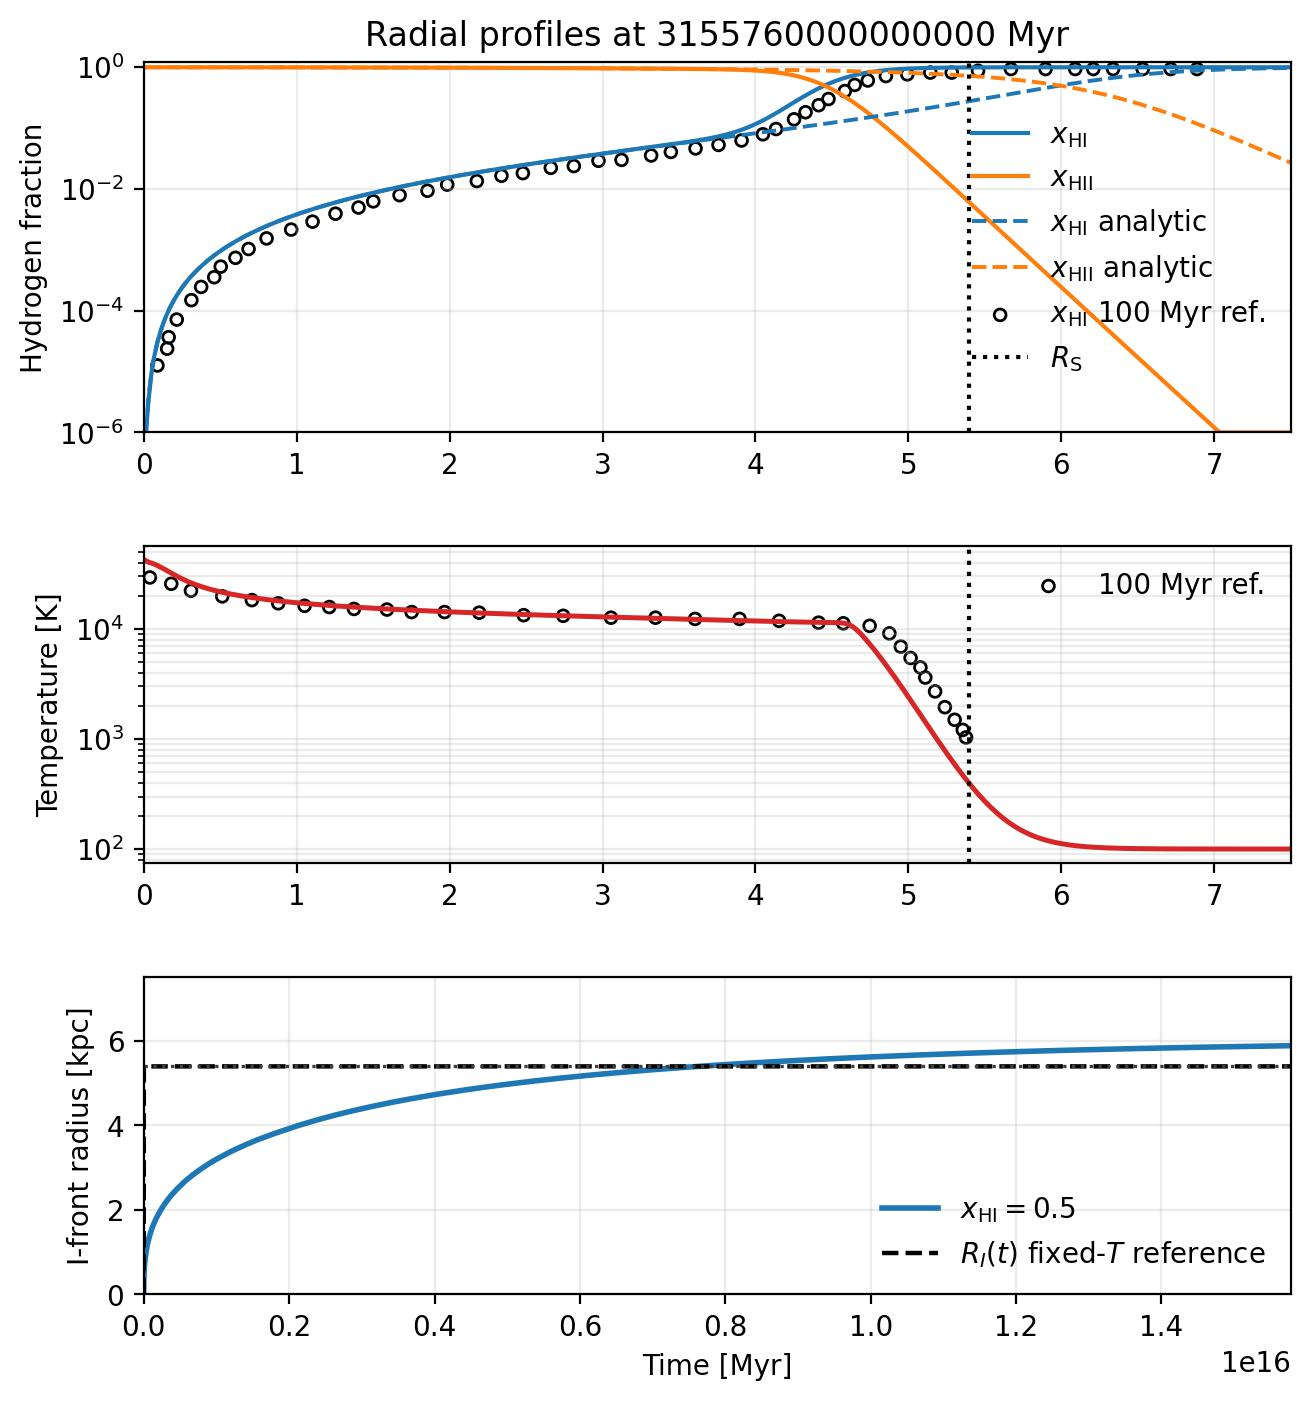
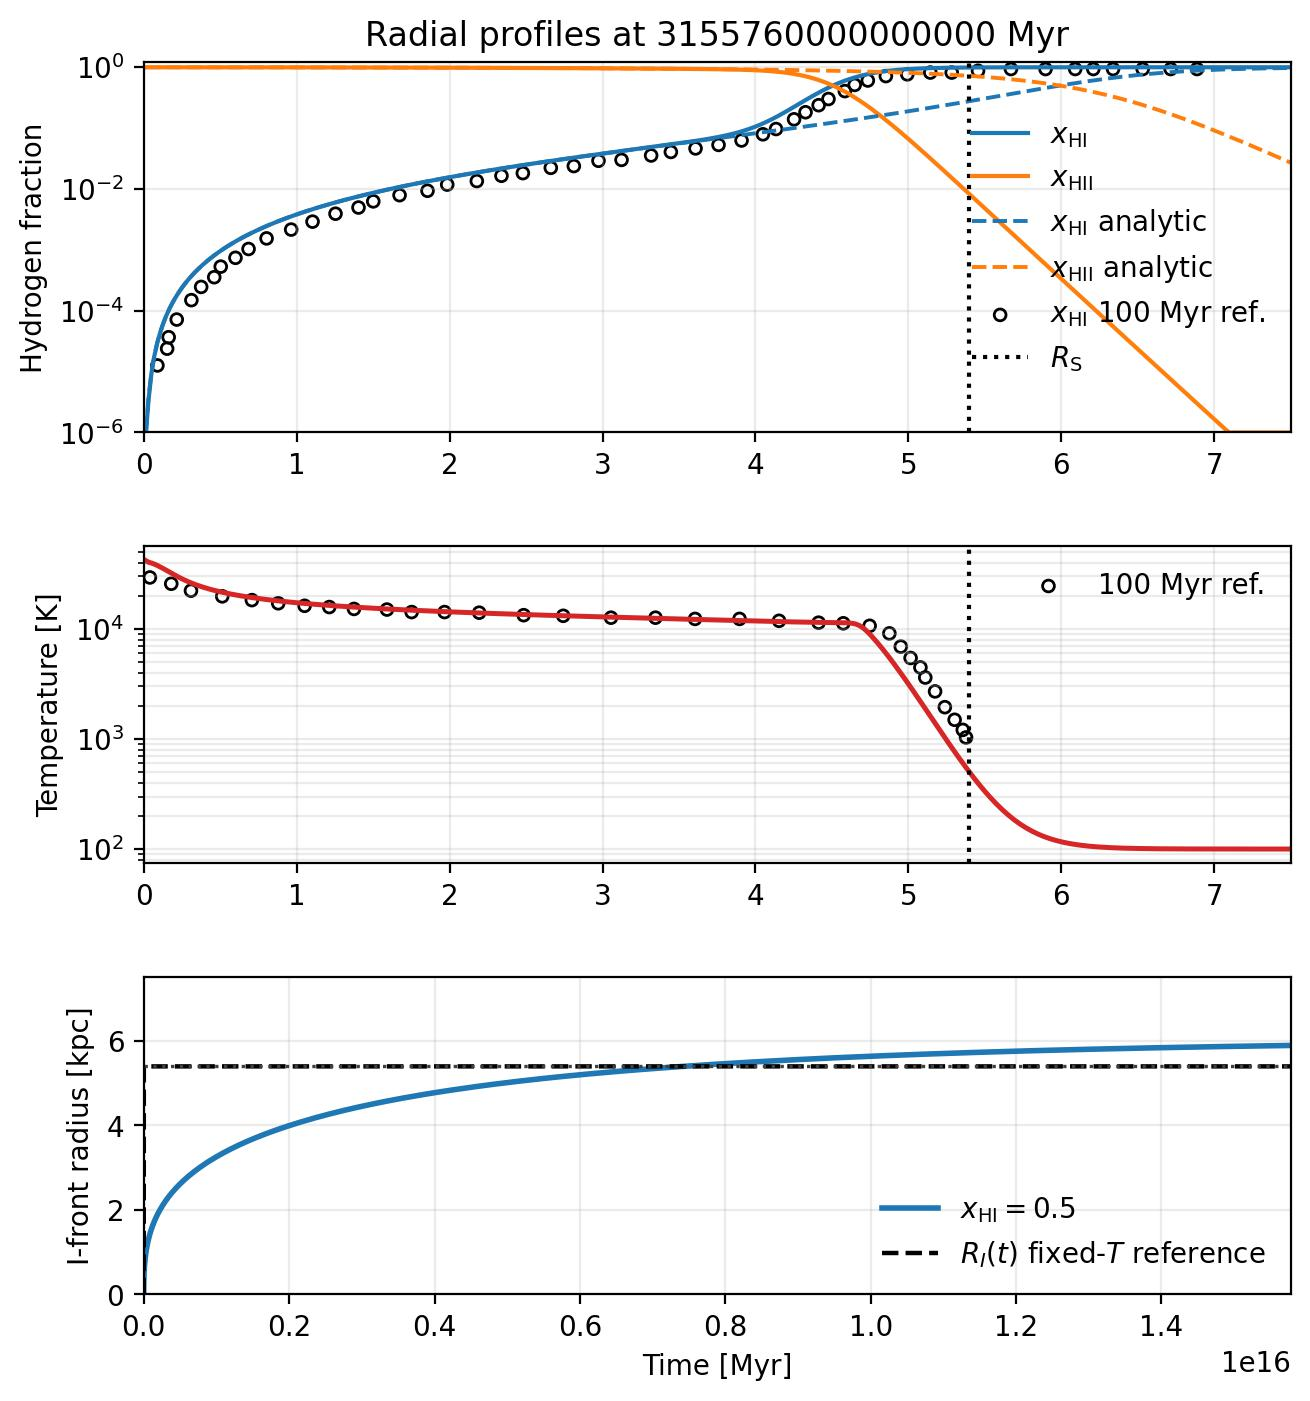
clean up and debug static stromgren sphere photoheating

diff --git a/example/StaticStromgrenSpherePhotoheating1D/tools.py b/example/StaticStromgrenSpherePhotoheating1D/tools.py
@@ -3,6 +3,7 @@
 import os
 import sys
 from types import SimpleNamespace
+from pathlib import Path
 
 import matplotlib
 matplotlib.use('Agg')
@@ -10,15 +11,12 @@ import matplotlib.pyplot as plt
 import numpy as np
 import unyt
 
-import radhydropy.radiative_transfer as rrt
-from radhydropy.eos import EOS
 from radhydropy.fluid import Fluid
 import radhydropy.io as rio
 from radhydropy.mesh import Mesh
 from radhydropy.solver import Solver
 from radhydropy.units import (
     CodeUnits,
-    _as_cgs_float,
 )
 
 static_stromgren_dir = os.path.abspath(
@@ -33,43 +31,52 @@ import stromgren_analytic as sa
 def build_static_problem(config):
     code_units = CodeUnits.from_mapping(config.get('CodeUnits'))
     par = SimpleNamespace(
-        coordsys='spherical',
-        boundcond='OpenSph',
+        coordsys=config.get('coordsys', 'spherical'),
+        boundcond=config.get('boundcond', 'OpenSph'),
         nogrid=config['number_of_cells'],
-        noghost=2,
+        noghost=config.get('noghost', 2),
         boxsize=config['boxsize'],
         verbose=config.get('verbose', 0),
         outdir=config.get('outdir', '.'),
         outfileprefix=config.get('outfileprefix', 'Output'),
         savedir=config.get('savedir', config.get('outdir', '.')),
-        area=config['area'],
-        EOStype='polytropic',
-        gamma=5.0 / 3.0,
-        dtmin=config['dtmin'],
-        dtmax=config['dtmax'],
-        hydrogen_chemistry=True,
-        hydrogen_mass_fraction=1.0,
-        hydrogen_xHI_initial=1.0,
-        hydrogen_xHI_inflow=1.0,
-        hydrogen_xHI_outflow=1.0,
-        hydrogen_source_CFL=config.get('evolution_timestep_cfl', 0.1),
-        hydrogen_source_dtmin=config['hydrogen_source_dtmin'],
-        hydrogen_update_mu=True,
-        hydrogen_thermal_coupling=True,
-        hydrogen_recombination=True,
-        hydrogen_collisional_ionization=False,
-        hydrogen_alpha_B=config['alpha_B_coefficient'],
-        hydrogen_beta=config['hydrogen_beta'],
-        hydrogen_radiation_field=False,
-        hydrogen_radiation_evolution=False,
-        hydrogen_ngamma_initial=config['hydrogen_ngamma_initial'],
-        hydrogen_sigma_gamma=config['sigma_gamma'],
-        hydrogen_epsilon_gamma=config['epsilon_gamma'],
-        radiative_transfer=True,
-        radiative_transfer_method='long_characteristics',
-        radiative_transfer_boundary_flux=config['radiative_transfer_boundary_flux'],
-        radiative_transfer_source_photon_rate=config['source_photon_rate'],
-        radiative_transfer_direction=1,
+        area=config.get('area', 1.0 * unyt.cm**2),
+        EOStype=config.get('EOStype', 'polytropic'),
+        gamma=config.get('gamma', 5.0 / 3.0),
+        dtmin=config.get('dtmin', 1.0e-6 * unyt.Myr),
+        dtmax=config.get('dtmax', 1.0 * unyt.Myr),
+        hydrogen_chemistry=config.get('hydrogen_chemistry', True),
+        hydrogen_mass_fraction=config.get('hydrogen_mass_fraction', 1.0),
+        hydrogen_xHI_initial=config.get('hydrogen_xHI_initial', 1.0),
+        hydrogen_xHI_inflow=config.get('hydrogen_xHI_inflow', 1.0),
+        hydrogen_xHI_outflow=config.get('hydrogen_xHI_outflow', 1.0),
+        hydrogen_source_CFL=config.get(
+            'hydrogen_source_CFL',
+            config.get('evolution_timestep_cfl', 0.1),
+        ),
+        hydrogen_source_dtmin=config.get('hydrogen_source_dtmin', 0.0 * unyt.Myr),
+        hydrogen_update_mu=config.get('hydrogen_update_mu', True),
+        hydrogen_thermal_coupling=config.get('hydrogen_thermal_coupling', True),
+        hydrogen_recombination=config.get('hydrogen_recombination', True),
+        hydrogen_collisional_ionization=config.get('hydrogen_collisional_ionization', False),
+        hydrogen_alpha_B=config.get('alpha_B_coefficient', config.get('hydrogen_alpha_B')),
+        hydrogen_beta=config.get('hydrogen_beta', 0.0 * unyt.cm**3 / unyt.s),
+        hydrogen_radiation_field=config.get('hydrogen_radiation_field', False),
+        hydrogen_radiation_evolution=config.get('hydrogen_radiation_evolution', False),
+        hydrogen_ngamma_initial=config.get('hydrogen_ngamma_initial', 0.0 / unyt.cm**3),
+        hydrogen_sigma_gamma=config.get('sigma_gamma', config.get('hydrogen_sigma_gamma')),
+        hydrogen_epsilon_gamma=config.get('epsilon_gamma', config.get('hydrogen_epsilon_gamma')),
+        radiative_transfer=config.get('radiative_transfer', True),
+        radiative_transfer_method=config.get('radiative_transfer_method', 'long_characteristics'),
+        radiative_transfer_boundary_flux=config.get(
+            'radiative_transfer_boundary_flux',
+            0.0 / (unyt.cm**2 * unyt.s),
+        ),
+        radiative_transfer_source_photon_rate=config.get(
+            'source_photon_rate',
+            config.get('radiative_transfer_source_photon_rate'),
+        ),
+        radiative_transfer_direction=config.get('radiative_transfer_direction', 1),
         CodeUnits=code_units,
         unit_system=code_units.unit_system,
     )
@@ -80,52 +87,64 @@ def build_static_problem(config):
         config['boxsize'].to_value(unyt.cm),
         par.nogrid + 1,
     ) * unyt.cm
-    mesh.SetUpMesh(par)
 
     fluid = Fluid()
-    fluid.eos = EOS(par.EOStype, par.gamma, code_units)
     fluid.rho = (
         np.ones(par.nogrid)
         * config['hydrogen_number_density']
         * unyt.mp
     ).to(unyt.g / unyt.cm**3)
     fluid.vel = np.zeros(par.nogrid) * unyt.cm / unyt.s
-    fluid.temp = np.ones(par.nogrid) * config['initial_temperature']
+    fluid.temp = np.ones(par.nogrid) * config.get('initial_temperature', 1.0e4 * unyt.K)
     fluid.mu = np.ones(par.nogrid)
     fluid.xHI = np.ones(par.nogrid)
-    fluid.SetUpFluid(par)
+    fluid.ngamma = np.ones(par.nogrid) * config.get('hydrogen_ngamma_initial', 0.0 / unyt.cm**3)
     fluid.SetFluidTime(0.0 * unyt.Myr)
-
     solver = Solver()
-    solver.SetBoundary(mesh, fluid, par)
-    solver.SetConserved(mesh, fluid, verbose=getattr(par, 'verbose', 0))
-    result = rrt.trace_long_characteristics(
-        mesh,
-        fluid.rho,
-        fluid.xHI,
-        hydrogen_mass_fraction=getattr(par, 'hydrogen_mass_fraction', 1.0),
-        sigma_gamma=_as_cgs_float(
-            getattr(par, 'hydrogen_sigma_gamma', rrt.rh.DEFAULT_SIGMA_GAMMA),
-            unyt.cm**2,
-        ),
-        boundary_flux=_as_cgs_float(
-            getattr(par, 'radiative_transfer_boundary_flux', 0.0),
-            1.0 / (unyt.cm**2 * unyt.s),
-        ),
-        source_photon_rate=_as_cgs_float(
-            getattr(par, 'radiative_transfer_source_photon_rate', 0.0),
-            1.0 / unyt.s,
-        ),
-        direction=getattr(par, 'radiative_transfer_direction', 1),
-        coordsys=getattr(mesh, 'coordsys', 'cartesian'),
-    )
-    fluid.ngamma[:] = np.asarray(result.cell_photon_density, dtype=float)
     return par, mesh, fluid, solver
+
+
+def write_initial_condition(config, runparams):
+    """Build the raw IC state, replace any stale snapshot, and write it."""
+    par, mesh, fluid, _ = build_static_problem(config)
+    sim = SimpleNamespace(par=par, mesh=mesh, fluid=fluid)
+    Path(runparams['ICfilename']).unlink(missing_ok=True)
+    rio.writehdf5(sim, runparams['ICfilename'])
+
+
+def _refresh_mesh_geometry(mesh, par):
+    """Recompute derived mesh geometry from an already ghosted boundary."""
+    mesh.xdelta = mesh.boundary[1:] - mesh.boundary[:-1]
+    mesh.oneoverdx = 1.0 / mesh.xdelta
+    if par.coordsys == 'cartesian':
+        mesh.coordinate = 0.5 * (mesh.boundary[1:] + mesh.boundary[:-1])
+        if hasattr(par, 'area'):
+            mesh.area = np.ones(len(mesh.xdelta)) * par.area
+        else:
+            mesh.area = np.ones(len(mesh.xdelta))
+        mesh.vol = mesh.xdelta * mesh.area
+    elif par.coordsys == 'spherical':
+        mesh.area = (mesh.boundary[:-1] ** 2) * 4.0 * np.pi
+        mesh.vol = np.absolute((mesh.boundary[1:] ** 3 - mesh.boundary[:-1] ** 3)) * 4.0 * np.pi / 3.0
+        vol_denom = mesh.boundary[1:] ** 3 - mesh.boundary[:-1] ** 3
+        mesh.coordinate = 0.5 * (mesh.boundary[1:] + mesh.boundary[:-1])
+        nonzero_vol_denom = vol_denom != 0.0
+        mesh.coordinate[nonzero_vol_denom] = 0.75 * (
+            mesh.boundary[1:][nonzero_vol_denom] ** 4 - mesh.boundary[:-1][nonzero_vol_denom] ** 4
+        ) / vol_denom[nonzero_vol_denom]
+        for ig in range(len(mesh.vol)):
+            if (mesh.boundary[ig] < 0.0) and (mesh.boundary[ig + 1] > 0.0):
+                mesh.vol[ig] = (mesh.boundary[ig + 1] ** 3) * 4.0 * np.pi / 3.0
+                mesh.coordinate[ig] = 0.75 * mesh.boundary[ig + 1]
+                mesh.area[ig] = 0.0
+    else:
+        raise ValueError("coordsys unknown: %s" % par.coordsys)
 
 
 def load_output_state(outputfilename, config):
     par, mesh, fluid, _ = build_static_problem(config)
     rio.readhdf5(par, mesh, fluid, outputfilename)
+    _refresh_mesh_geometry(mesh, par)
     return par, mesh, fluid
 
 

diff --git a/example/StaticStromgrenSpherePhotoheating1D/static_stromgren_sphere_photoheating1d.py b/example/StaticStromgrenSpherePhotoheating1D/static_stromgren_sphere_photoheating1d.py
@@ -55,30 +55,41 @@ def main(config_filename=DEFAULT_CONFIG):
         'temperature_reference_filename',
         'neutral_fraction_reference_filename',
     ):
-        if key in icparams:
-            value = Path(icparams[key])
+        if key in runparams:
+            value = Path(runparams[key])
             if not value.is_absolute():
-                icparams[key] = str(config_dir / value)
+                runparams[key] = str(config_dir / value)
     config = {**runparams, **icparams}
     print('config', config)
+    for alias, source in (
+        ('hydrogen_alpha_B', 'alpha_B_coefficient'),
+        ('hydrogen_sigma_gamma', 'sigma_gamma'),
+        ('hydrogen_epsilon_gamma', 'epsilon_gamma'),
+        ('radiative_transfer_source_photon_rate', 'source_photon_rate'),
+    ):
+        if source in runparams and alias not in runparams:
+            runparams[alias] = runparams[source]
 
     Path(runparams['outdir']).mkdir(parents=True, exist_ok=True)
     Path(runparams['savedir']).mkdir(parents=True, exist_ok=True)
 
-    par, mesh, fluid, solver = et.build_static_problem(config)
-    sim = Rsim.FromComponents(par, mesh, fluid, solver)
+    et.write_initial_condition(config, runparams)
 
-    rio.writehdf5(sim, runparams['ICfilename'])
+    mainrun = Rsim(runparams)
+    mainrun.Callreadhdf5()
+    mainrun.SetMesh()
+    mainrun.SetFluid()
+    mainrun.SetInitFluid()
 
-    history = sim.EvolveStaticThermochemistry(
-        icparams['final_time'],
-        icparams['evolution_timestep'],
+    history = mainrun.EvolveStaticThermochemistry(
+        runparams['final_time'],
+        runparams['evolution_timestep'],
         include_thermal_history=True,
-        reference_time=icparams['reference_time'],
+        reference_time=runparams['reference_time'],
     )
 
     output_filename = Path(runparams['outdir']) / f"{runparams['outfileprefix']}_000.hdf5"
-    rio.writehdf5(sim, output_filename)
+    rio.writehdf5(mainrun, output_filename)
 
     out_par, out_mesh, out_fluid = et.load_output_state(output_filename, config)
     figure_filename = Path(runparams['savedir']) / 'StaticStromgrenSpherePhotoheating1D.jpg'
@@ -88,18 +99,18 @@ def main(config_filename=DEFAULT_CONFIG):
     print(
         'stromgren radius = %s'
         % sa.stromgren_radius(
-            icparams['source_photon_rate'],
+            runparams['source_photon_rate'],
             icparams['hydrogen_number_density'],
-            icparams['alpha_B_coefficient'],
+            runparams['alpha_B_coefficient'],
         ).to(unyt.kpc)
     )
     print(
         'analytic front radius = %s'
         % sa.ionization_front_radius(
-            icparams['final_time'],
-            icparams['source_photon_rate'],
+            runparams['final_time'],
+            runparams['source_photon_rate'],
             icparams['hydrogen_number_density'],
-            icparams['alpha_B_coefficient'],
+            runparams['alpha_B_coefficient'],
         ).to(unyt.kpc)
     )
     print('mean ionized temperature = %.3e K' % history['mean_ionized_temp_K'][-1])

diff --git a/tests/test_example.py b/tests/test_example.py
@@ -478,18 +478,38 @@ class Testing(unittest.TestCase):
         runparams, icparams = load_example_parameters(config_filename)
 
         self.assertEqual(runparams['outfileprefix'], 'Output')
+        self.assertEqual(runparams['coordsys'], 'spherical')
+        self.assertEqual(runparams['boundcond'], 'OpenSph')
+        self.assertEqual(runparams['noghost'], 2)
+        self.assertEqual(runparams['EOStype'], 'polytropic')
+        self.assertEqual(runparams['gamma'], 1.6666666666666667)
+        self.assertEqual(runparams['timesim'].to_value(unyt.Myr), 500.0)
+        self.assertEqual(runparams['final_time'].to_value(unyt.Myr), 500.0)
+        self.assertEqual(runparams['evolution_timestep'].to_value(unyt.Myr), 1.0)
+        self.assertEqual(runparams['reference_time'].to_value(unyt.Myr), 100.0)
+        self.assertEqual(runparams['source_photon_rate'].to_value(1.0 / unyt.s), 5.0e48)
+        self.assertEqual(
+            runparams['alpha_B_coefficient'].to_value(unyt.cm**3 / unyt.s),
+            2.59e-13,
+        )
+        self.assertEqual(
+            runparams['temperature_reference_filename'].endswith(
+                'TTT1Dthin_Stromgren100Myr.txt'
+            ),
+            True,
+        )
+        self.assertEqual(
+            runparams['neutral_fraction_reference_filename'].endswith(
+                'xTT1Dthin_Stromgren100Myr.txt'
+            ),
+            True,
+        )
         self.assertEqual(icparams['number_of_cells'], 1024)
         self.assertEqual(icparams['boxsize'].to_value(unyt.kpc), 20.0)
-        self.assertEqual(
-            icparams['source_photon_rate'].to_value(1.0 / unyt.s),
-            5.0e48,
-        )
-        self.assertEqual(icparams['evolution_timestep'].to_value(unyt.Myr), 1.0)
-        self.assertTrue(
-            icparams['temperature_reference_filename'].endswith(
-                'TTT1Dthin_Stromgren100Myr.txt'
-            )
-        )
+        self.assertEqual(icparams['hydrogen_number_density'].to_value(1.0 / unyt.cm**3), 1.0e-3)
+        self.assertEqual(icparams['initial_temperature'].to_value(unyt.K), 100.0)
+        self.assertEqual(icparams['time'].to_value(unyt.Myr), 0.0)
+        self.assertEqual(icparams['analytic_inner_radius'].to_value(unyt.kpc), 0.1)
 
     def test_static_stromgren_sphere_photoheating1d_static_evolution_runs(self):
         config_filename = (

diff --git a/radhydropy/rsim.py b/radhydropy/rsim.py
@@ -542,8 +542,9 @@ class Rsim():
         return 0.5 * (recombination_rate_start + recombination_rate_end) * dt_s
 
     def _refresh_static_photon_density(self, state, step, time_s, final_time_s):
-        if time_s < final_time_s:
-            return None, 0
+        # The static thermo-chemistry path still needs the radiation field to
+        # follow the evolving neutral fraction. Refresh every source step so
+        # the next implicit update sees the current opacity.
         ngamma = rrt.trace_photon_density(state, self.par)
         return ngamma, 1
 
